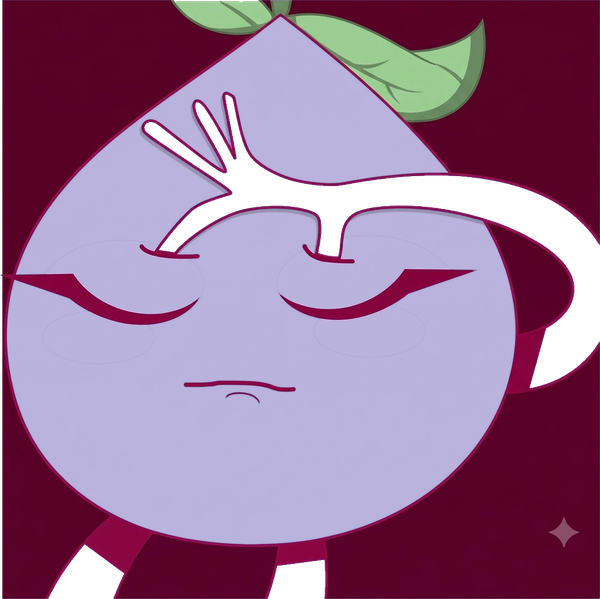
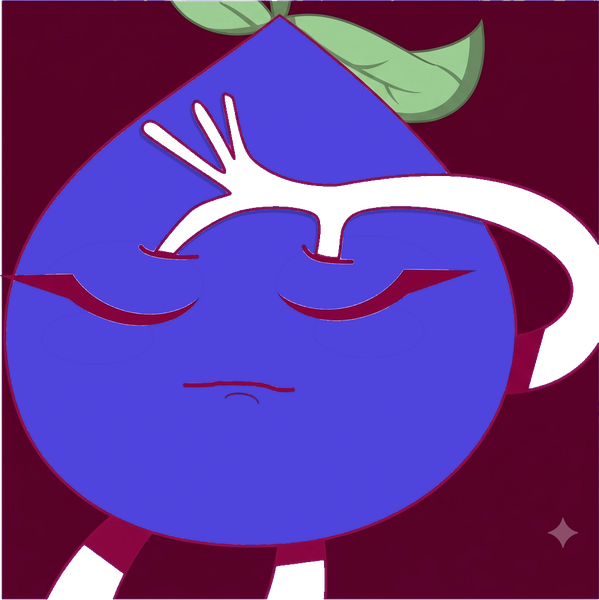
Fix phone login (trusted origins) and refine mascot
- Login over LAN/phone failed with INVALID_ORIGIN (403); better-auth had no
  trusted origins. Added dev-only wildcard trusted origins (localhost + private
  LAN ranges) plus BETTER_AUTH_URL for production, as a static array (the
  function form passed an undefined request and crashed the auth + dashboard).
- Mascot recoloured to #5D4FFF (more saturated) and floating bits removed: added
  a small-island alpha filter (scipy) so the crop hugs the character + props
  (hearts/star/moon kept), giving a tighter frame.

diff --git a/lib/auth.ts b/lib/auth.ts
@@ -3,6 +3,29 @@ import { Resend } from "resend";
 import { Kysely } from "kysely";
 import { D1Dialect } from "kysely-d1";
 
+/**
+ * Which origins are allowed to sign in (better-auth's CSRF protection).
+ * - Always trusts a configured production URL (set BETTER_AUTH_URL when deployed).
+ * - In development, also trusts localhost and private-LAN addresses (wildcard
+ *   patterns), so the owner can open the dev server on a phone over Wi-Fi/hotspot
+ *   without an "invalid origin" error. These private ranges can't be forged by an
+ *   external attacker's browser, and they're omitted entirely in production.
+ */
+function resolveTrustedOrigins(): string[] {
+  const trusted: string[] = [];
+  if (process.env.BETTER_AUTH_URL) trusted.push(process.env.BETTER_AUTH_URL);
+  if (process.env.NODE_ENV !== "production") {
+    trusted.push(
+      "http://localhost:*",
+      "http://127.0.0.1:*",
+      "http://192.168.*",
+      "http://10.*",
+      "http://172.*",
+    );
+  }
+  return trusted;
+}
+
 export function createAuth(db: D1Database) {
   const kysely = new Kysely({ dialect: new D1Dialect({ database: db }) });
 
@@ -11,6 +34,7 @@ export function createAuth(db: D1Database) {
       type: "sqlite",
       db: kysely,
     },
+    trustedOrigins: resolveTrustedOrigins(),
     emailAndPassword: {
       enabled: true,
       requireEmailVerification: false,

diff --git a/scripts/process-mascot.py b/scripts/process-mascot.py
@@ -19,6 +19,7 @@ from collections import deque
 
 import numpy as np
 from PIL import Image
+from scipy import ndimage
 
 SRC = "Mascot"
 OUT = "public/mascot"
@@ -26,9 +27,13 @@ WORK = 1200          # working resolution for the flood-fill pass
 FINAL = 600          # longest side of the output
 THRESH_DEFAULT = 48  # colour distance counted as "same as background"
 
-# Recolour the character's violet body/outline to this lavender (shading kept).
+# Recolour the character's violet body/outline to this colour (shading kept).
 # Set RECOLOR = None to skip and use the original purple art.
-RECOLOR = "#D7CEFF"
+RECOLOR = "#5D4FFF"
+
+# Drop opaque islands smaller than this fraction of the frame (stray specks /
+# watermark bits) before cropping, so the crop hugs the real character + props.
+MIN_ISLAND_FRAC = 0.004
 
 
 def _hex(h):
@@ -113,6 +118,24 @@ def remove_bg(im: Image.Image, thresh: int) -> Image.Image:
     return im
 
 
+def remove_small_islands(im: Image.Image, min_frac: float) -> Image.Image:
+    """Clear the alpha of small disconnected opaque blobs (stray specks /
+    leftover watermark bits), keeping the character and large props (hearts,
+    star, moon, clouds)."""
+    arr = np.array(im)  # RGBA
+    alpha = arr[..., 3]
+    mask = alpha > 16
+    lbl, n = ndimage.label(mask)
+    if n <= 1:
+        return im
+    counts = np.bincount(lbl.ravel())
+    counts[0] = 0  # label 0 is the transparent background
+    thr = max(700, int(min_frac * mask.size))
+    keep = counts >= thr
+    arr[..., 3] = np.where(keep[lbl], alpha, 0)
+    return Image.fromarray(arr, "RGBA")
+
+
 def process(src_name, out_name, thresh):
     global BG
     path = os.path.join(SRC, src_name)
@@ -131,6 +154,7 @@ def process(src_name, out_name, thresh):
     BG = tuple(sum(c[k] for c in corners) // 4 for k in range(3))
 
     im = remove_bg(im, thresh)
+    im = remove_small_islands(im, MIN_ISLAND_FRAC)
 
     bbox = im.getbbox()
     if bbox:
